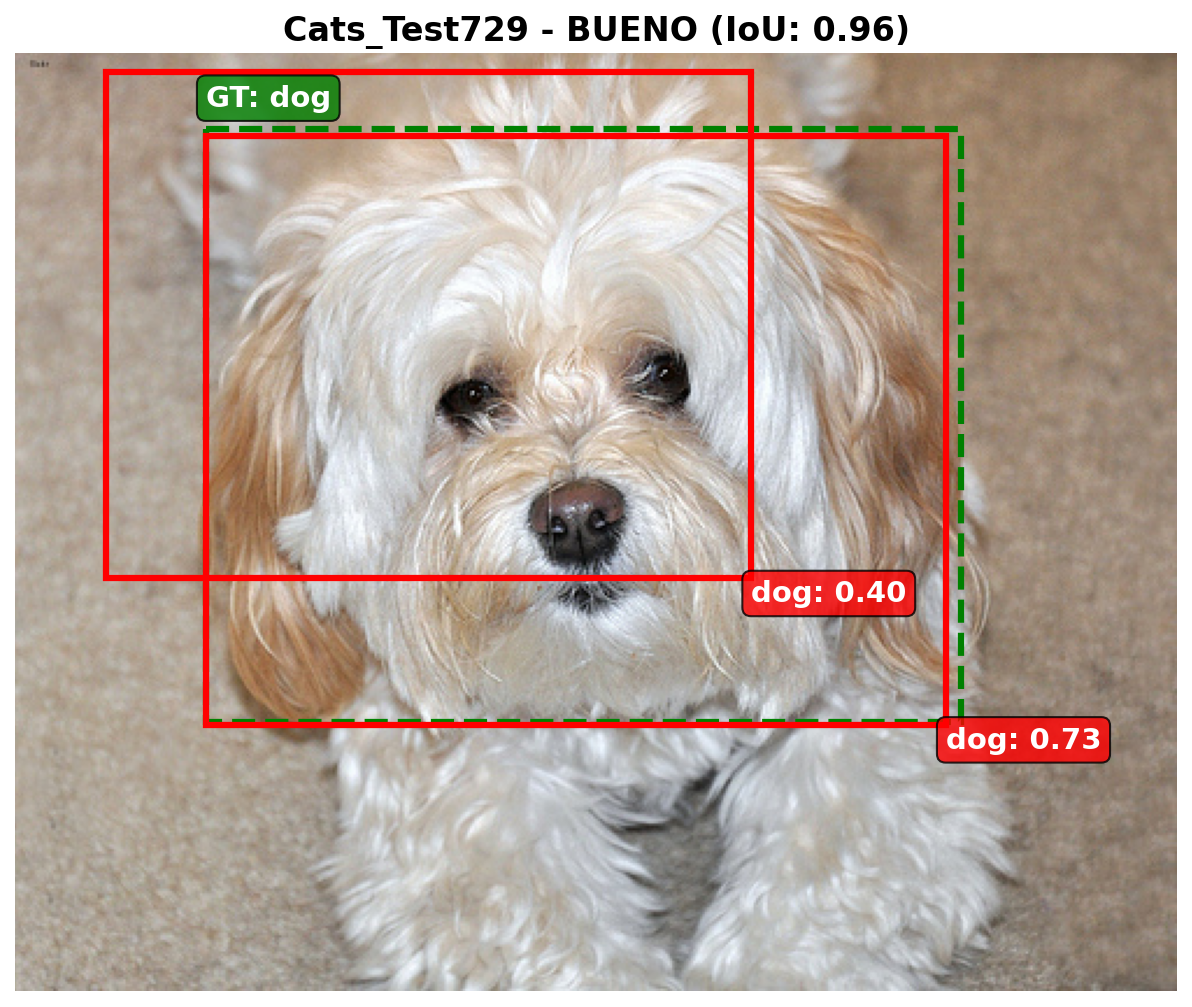
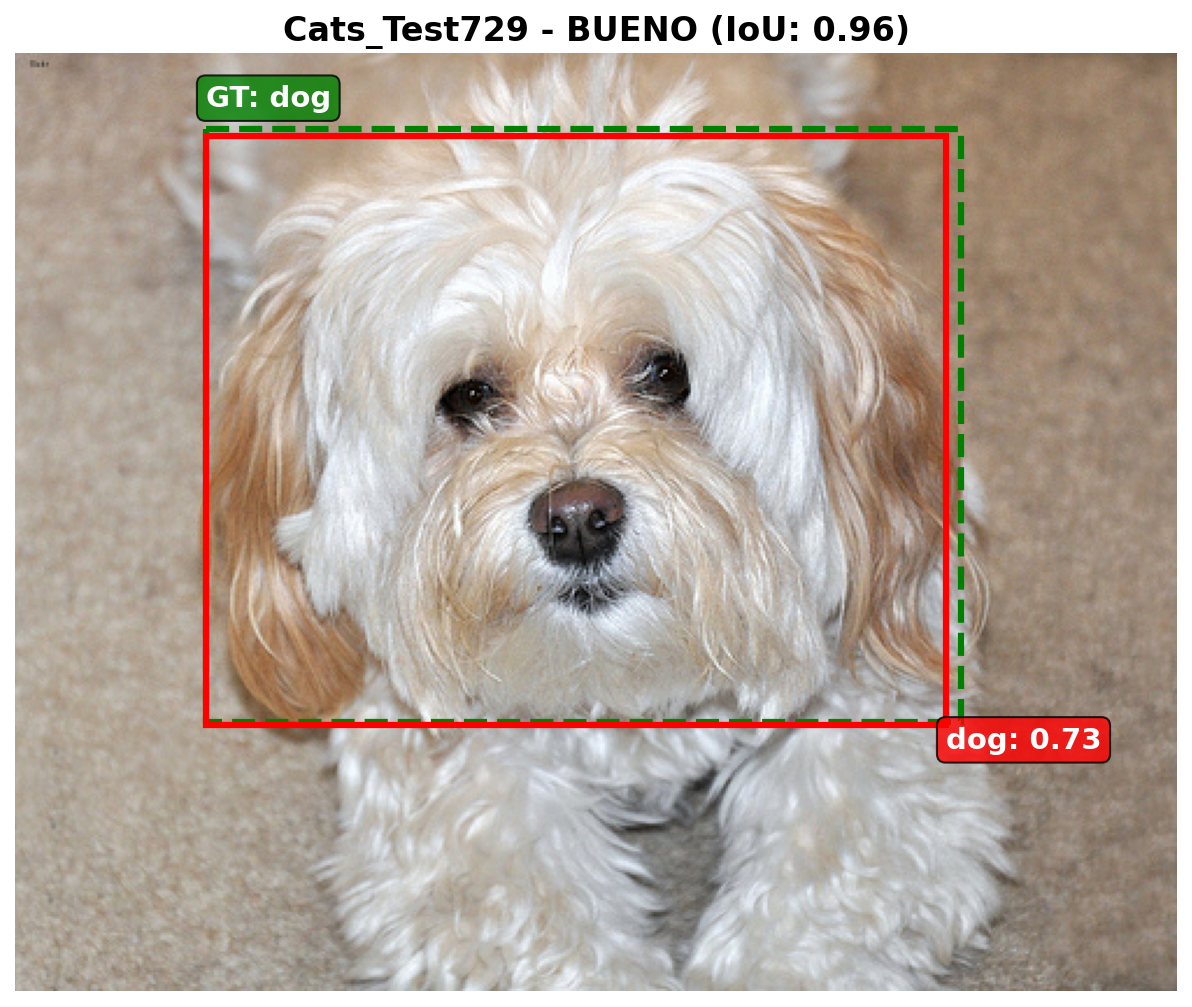
error where multiple boxes were shown fixed

Changed region(s): [[0.0621, 0.0616, 0.776, 0.6157]]

diff --git a/visualizations.py b/visualizations.py
@@ -58,7 +58,7 @@ def generate_visualizations_for_model(checkpoint_path, output_dir, experiment_na
             detections = model.post_process(
                 outputs, 
                 conf_threshold=0.3,  # Umbral más bajo para ver más detecciones
-                nms_threshold=0.5
+                nms_threshold=0.3    # NMS más agresivo para eliminar duplicados
             )[0]
             
             # Calcular métricas para esta imagen
@@ -173,52 +173,52 @@ def create_visualization(result, config):
     """Crea una visualización para un resultado"""
     data = result['data']
     detections = result['detections']
-
+    
     # Cargar imagen
     img_path = os.path.join(config.IMAGES_DIR, f"{data['file_name']}.png")
     if not os.path.exists(img_path):
         img_path = os.path.join(config.IMAGES_DIR, f"{data['file_name']}.jpg")
-
+    
     image = Image.open(img_path).convert('RGB')
-
+    
     # Crear figura
     fig, ax = plt.subplots(1, figsize=(10, 10))
     ax.imshow(image)
-
+    
     # Escalar boxes
     scale_x = data['original_size'][0] / config.IMAGE_SIZE
     scale_y = data['original_size'][1] / config.IMAGE_SIZE
-
+    
     # Dibujar GT en verde
     for box, label in zip(data['boxes'], data['labels']):
-        device = box.device
-        scales = torch.tensor([scale_x, scale_y, scale_x, scale_y], device=device)
-        x1, y1, x2, y2 = (box * scales).cpu()
-        x1, y1, x2, y2 = x1.item(), y1.item(), x2.item(), y2.item()
-        rect = patches.Rectangle((x1, y1), x2 - x1, y2 - y1,
-                                 linewidth=3, edgecolor='green',
-                                 facecolor='none', linestyle='--')
+        x1, y1, x2, y2 = box.cpu().numpy() * np.array([scale_x, scale_y, scale_x, scale_y])
+        rect = patches.Rectangle((x1, y1), x2-x1, y2-y1, 
+                               linewidth=3, edgecolor='green', 
+                               facecolor='none', linestyle='--')
         ax.add_patch(rect)
-        ax.text(x1, y1 - 10, f'GT: {config.CLASSES[label]}',
-                color='white', fontsize=14, weight='bold',
-                bbox=dict(boxstyle="round,pad=0.3", facecolor="green", alpha=0.8))
-
+        ax.text(x1, y1-10, f'GT: {config.CLASSES[label]}', 
+               color='white', fontsize=14, weight='bold',
+               bbox=dict(boxstyle="round,pad=0.3", facecolor="green", alpha=0.8))
+    
     # Dibujar predicciones en rojo
-    for box, score, label in zip(detections['boxes'],
-                                 detections['scores'],
-                                 detections['labels']):
-        device = box.device
-        scales = torch.tensor([scale_x, scale_y, scale_x, scale_y], device=device)
-        x1, y1, x2, y2 = (box * scales).cpu()
-        x1, y1, x2, y2 = x1.item(), y1.item(), x2.item(), y2.item()
-        rect = patches.Rectangle((x1, y1), x2 - x1, y2 - y1,
-                                 linewidth=3, edgecolor='red',
-                                 facecolor='none')
+    # Para evitar múltiples boxes, solo mostrar la de mayor score
+    if len(detections['boxes']) > 0:
+        # Obtener índice de la detección con mayor score
+        best_idx = detections['scores'].argmax()
+        
+        box = detections['boxes'][best_idx]
+        score = detections['scores'][best_idx]
+        label = detections['labels'][best_idx]
+        
+        x1, y1, x2, y2 = box.cpu().numpy() * np.array([scale_x, scale_y, scale_x, scale_y])
+        rect = patches.Rectangle((x1, y1), x2-x1, y2-y1, 
+                               linewidth=3, edgecolor='red', 
+                               facecolor='none')
         ax.add_patch(rect)
-        ax.text(x2, y2 + 10, f'{config.CLASSES[label]}: {score:.2f}',
-                color='white', fontsize=14, weight='bold',
-                bbox=dict(boxstyle="round,pad=0.3", facecolor="red", alpha=0.8))
-
+        ax.text(x2, y2+10, f'{config.CLASSES[label.item()]}: {score:.2f}', 
+               color='white', fontsize=14, weight='bold',
+               bbox=dict(boxstyle="round,pad=0.3", facecolor="red", alpha=0.8))
+    
     # Título con información
     title = f'{data["file_name"]} - '
     if result['max_iou'] > 0.5 and result['correct_class']:
@@ -232,14 +232,13 @@ def create_visualization(result, config):
             title += f'MALO (Clase incorrecta, IoU: {result["max_iou"]:.2f})'
         else:
             title += f'MALO (IoU bajo: {result["max_iou"]:.2f})'
-
+    
     ax.set_title(title, fontsize=16, weight='bold')
     ax.set_xlim(0, data['original_size'][0])
     ax.set_ylim(data['original_size'][1], 0)
     ax.axis('off')
-
+    
     return fig
-
 
 def create_score_distribution_plot(all_results, output_dir, experiment_name):
     """Crea gráfico de distribución de scores"""
